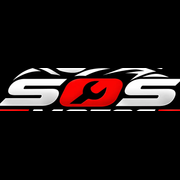
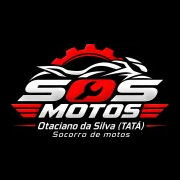
Ícones oficiais, ícone do iPhone e FAQ em sanfona
Troca os ícones desenhados à mão (via <use>) pelos oficiais embutidos:
WhatsApp (Simple Icons), Lucide e a moto do Tabler. Refaz o ícone de
tela inicial do iPhone com a logo inteira. No FAQ, abrir uma pergunta
fecha a outra e a pergunta clicada não sai do lugar.

Changed region(s): [[0.0, 0.2222, 1.0, 0.7778]]

diff --git a/index.html b/index.html
@@ -17,6 +17,7 @@
 <meta property="og:image:height" content="630">
 <meta name="twitter:card" content="summary_large_image">
 <link rel="icon" href="favicon.png" type="image/png">
+<link rel="icon" href="icon-512.png" type="image/png" sizes="512x512">
 <link rel="apple-touch-icon" href="apple-touch-icon.png">
 <meta name="theme-color" content="#0B0B0C">
 <link rel="canonical" href="https://murilolodi.github.io/site-sos-motos/">
@@ -101,7 +102,7 @@
       <a href="#duvidas">Dúvidas</a>
     </nav>
     <a class="btn btn--red btn--sm header__cta" data-wa href="https://wa.me/5545999428969">
-      <svg class="ico" viewBox="0 0 24 24" aria-hidden="true"><use href="#i-wa"/></svg>Chamar no WhatsApp
+      <svg class="ico" viewBox="0 0 24 24" fill="currentColor" aria-hidden="true" focusable="false"><path d="M17.472 14.382c-.297-.149-1.758-.867-2.03-.967-.273-.099-.471-.148-.67.15-.197.297-.767.966-.94 1.164-.173.199-.347.223-.644.075-.297-.15-1.255-.463-2.39-1.475-.883-.788-1.48-1.761-1.653-2.059-.173-.297-.018-.458.13-.606.134-.133.298-.347.446-.52.149-.174.198-.298.298-.497.099-.198.05-.371-.025-.52-.075-.149-.669-1.612-.916-2.207-.242-.579-.487-.5-.669-.51-.173-.008-.371-.01-.57-.01-.198 0-.52.074-.792.372-.272.297-1.04 1.016-1.04 2.479 0 1.462 1.065 2.875 1.213 3.074.149.198 2.096 3.2 5.077 4.487.709.306 1.262.489 1.694.625.712.227 1.36.195 1.871.118.571-.085 1.758-.719 2.006-1.413.248-.694.248-1.289.173-1.413-.074-.124-.272-.198-.57-.347m-5.421 7.403h-.004a9.87 9.87 0 01-5.031-1.378l-.361-.214-3.741.982.998-3.648-.235-.374a9.86 9.86 0 01-1.51-5.26c.001-5.45 4.436-9.884 9.888-9.884 2.64 0 5.122 1.03 6.988 2.898a9.825 9.825 0 012.893 6.994c-.003 5.45-4.437 9.884-9.885 9.884m8.413-18.297A11.815 11.815 0 0012.05 0C5.495 0 .16 5.335.157 11.892c0 2.096.547 4.142 1.588 5.945L.057 24l6.305-1.654a11.882 11.882 0 005.683 1.448h.005c6.554 0 11.89-5.335 11.893-11.893a11.821 11.821 0 00-3.48-8.413Z"/></svg>Chamar no WhatsApp
     </a>
     <button class="header__burger" type="button" aria-expanded="false" aria-controls="menu" aria-label="Abrir menu"><span></span><span></span></button>
   </div>
@@ -111,7 +112,7 @@
     <a href="#carretinha">Carretinha</a>
     <a href="#area">Área atendida</a>
     <a href="#duvidas">Dúvidas</a>
-    <a class="btn btn--red" data-wa href="https://wa.me/5545999428969"><svg class="ico" viewBox="0 0 24 24" aria-hidden="true"><use href="#i-wa"/></svg>Chamar no WhatsApp</a>
+    <a class="btn btn--red" data-wa href="https://wa.me/5545999428969"><svg class="ico" viewBox="0 0 24 24" fill="currentColor" aria-hidden="true" focusable="false"><path d="M17.472 14.382c-.297-.149-1.758-.867-2.03-.967-.273-.099-.471-.148-.67.15-.197.297-.767.966-.94 1.164-.173.199-.347.223-.644.075-.297-.15-1.255-.463-2.39-1.475-.883-.788-1.48-1.761-1.653-2.059-.173-.297-.018-.458.13-.606.134-.133.298-.347.446-.52.149-.174.198-.298.298-.497.099-.198.05-.371-.025-.52-.075-.149-.669-1.612-.916-2.207-.242-.579-.487-.5-.669-.51-.173-.008-.371-.01-.57-.01-.198 0-.52.074-.792.372-.272.297-1.04 1.016-1.04 2.479 0 1.462 1.065 2.875 1.213 3.074.149.198 2.096 3.2 5.077 4.487.709.306 1.262.489 1.694.625.712.227 1.36.195 1.871.118.571-.085 1.758-.719 2.006-1.413.248-.694.248-1.289.173-1.413-.074-.124-.272-.198-.57-.347m-5.421 7.403h-.004a9.87 9.87 0 01-5.031-1.378l-.361-.214-3.741.982.998-3.648-.235-.374a9.86 9.86 0 01-1.51-5.26c.001-5.45 4.436-9.884 9.888-9.884 2.64 0 5.122 1.03 6.988 2.898a9.825 9.825 0 012.893 6.994c-.003 5.45-4.437 9.884-9.885 9.884m8.413-18.297A11.815 11.815 0 0012.05 0C5.495 0 .16 5.335.157 11.892c0 2.096.547 4.142 1.588 5.945L.057 24l6.305-1.654a11.882 11.882 0 005.683 1.448h.005c6.554 0 11.89-5.335 11.893-11.893a11.821 11.821 0 00-3.48-8.413Z"/></svg>Chamar no WhatsApp</a>
   </div>
 </header>
 
@@ -131,16 +132,16 @@
         <p class="hero__lead" data-in="3">Sua moto parou? O <strong>Tatá</strong> vai até onde ela está e leva para a oficina ou para a sua casa, presa com cintas numa carretinha para até 3 motos.</p>
         <div class="hero__cta" data-in="4">
           <a class="btn btn--red btn--lg btn--shine" data-wa href="https://wa.me/5545999428969">
-            <svg class="ico" viewBox="0 0 24 24" aria-hidden="true"><use href="#i-wa"/></svg>Chamar no WhatsApp
+            <svg class="ico" viewBox="0 0 24 24" fill="currentColor" aria-hidden="true" focusable="false"><path d="M17.472 14.382c-.297-.149-1.758-.867-2.03-.967-.273-.099-.471-.148-.67.15-.197.297-.767.966-.94 1.164-.173.199-.347.223-.644.075-.297-.15-1.255-.463-2.39-1.475-.883-.788-1.48-1.761-1.653-2.059-.173-.297-.018-.458.13-.606.134-.133.298-.347.446-.52.149-.174.198-.298.298-.497.099-.198.05-.371-.025-.52-.075-.149-.669-1.612-.916-2.207-.242-.579-.487-.5-.669-.51-.173-.008-.371-.01-.57-.01-.198 0-.52.074-.792.372-.272.297-1.04 1.016-1.04 2.479 0 1.462 1.065 2.875 1.213 3.074.149.198 2.096 3.2 5.077 4.487.709.306 1.262.489 1.694.625.712.227 1.36.195 1.871.118.571-.085 1.758-.719 2.006-1.413.248-.694.248-1.289.173-1.413-.074-.124-.272-.198-.57-.347m-5.421 7.403h-.004a9.87 9.87 0 01-5.031-1.378l-.361-.214-3.741.982.998-3.648-.235-.374a9.86 9.86 0 01-1.51-5.26c.001-5.45 4.436-9.884 9.888-9.884 2.64 0 5.122 1.03 6.988 2.898a9.825 9.825 0 012.893 6.994c-.003 5.45-4.437 9.884-9.885 9.884m8.413-18.297A11.815 11.815 0 0012.05 0C5.495 0 .16 5.335.157 11.892c0 2.096.547 4.142 1.588 5.945L.057 24l6.305-1.654a11.882 11.882 0 005.683 1.448h.005c6.554 0 11.89-5.335 11.893-11.893a11.821 11.821 0 00-3.48-8.413Z"/></svg>Chamar no WhatsApp
           </a>
           <a class="btn btn--ghost btn--lg" data-tel href="tel:+5545999428969">
-            <svg class="ico" viewBox="0 0 24 24" aria-hidden="true"><use href="#i-phone"/></svg>Ligar agora
+            <svg class="ico" viewBox="0 0 24 24" fill="none" stroke="currentColor" stroke-width="2" stroke-linecap="round" stroke-linejoin="round" aria-hidden="true" focusable="false"><path d="M22 16.92v3a2 2 0 0 1-2.18 2 19.79 19.79 0 0 1-8.63-3.07 19.5 19.5 0 0 1-6-6 19.79 19.79 0 0 1-3.07-8.67A2 2 0 0 1 4.11 2h3a2 2 0 0 1 2 1.72 12.84 12.84 0 0 0 .7 2.81 2 2 0 0 1-.45 2.11L8.09 9.91a16 16 0 0 0 6 6l1.27-1.27a2 2 0 0 1 2.11-.45 12.84 12.84 0 0 0 2.81.7A2 2 0 0 1 22 16.92z" /></svg>Ligar agora
           </a>
         </div>
         <ul class="chips" data-in="5">
-          <li><svg class="ico" viewBox="0 0 24 24" aria-hidden="true"><use href="#i-check"/></svg>Carretinha para 3 motos</li>
-          <li><svg class="ico" viewBox="0 0 24 24" aria-hidden="true"><use href="#i-check"/></svg>Moto presa com cintas</li>
-          <li><svg class="ico" viewBox="0 0 24 24" aria-hidden="true"><use href="#i-check"/></svg>Preço combinado antes</li>
+          <li><svg class="ico" viewBox="0 0 24 24" fill="none" stroke="currentColor" stroke-width="2" stroke-linecap="round" stroke-linejoin="round" aria-hidden="true" focusable="false"><path d="M20 6 9 17l-5-5" /></svg>Carretinha para 3 motos</li>
+          <li><svg class="ico" viewBox="0 0 24 24" fill="none" stroke="currentColor" stroke-width="2" stroke-linecap="round" stroke-linejoin="round" aria-hidden="true" focusable="false"><path d="M20 6 9 17l-5-5" /></svg>Moto presa com cintas</li>
+          <li><svg class="ico" viewBox="0 0 24 24" fill="none" stroke="currentColor" stroke-width="2" stroke-linecap="round" stroke-linejoin="round" aria-hidden="true" focusable="false"><path d="M20 6 9 17l-5-5" /></svg>Preço combinado antes</li>
         </ul>
       </div>
 
@@ -149,11 +150,11 @@
           <img src="img/carretinha-900.webp" srcset="img/carretinha-600.webp 600w, img/carretinha-900.webp 900w" sizes="(max-width: 900px) 90vw, 460px" width="900" height="1600" alt="Carretinha do SOS Motos com piso de alumínio antiderrapante e três suportes de roda" fetchpriority="high">
         </div>
         <div class="float float--a">
-          <span class="float__ico"><svg viewBox="0 0 24 24" aria-hidden="true"><use href="#i-pin"/></svg></span>
+          <span class="float__ico"><svg viewBox="0 0 24 24" fill="none" stroke="currentColor" stroke-width="2" stroke-linecap="round" stroke-linejoin="round" aria-hidden="true" focusable="false"><path d="M20 10c0 4.993-5.539 10.193-7.399 11.799a1 1 0 0 1-1.202 0C9.539 20.193 4 14.993 4 10a8 8 0 0 1 16 0" /> <circle cx="12" cy="10" r="3" /></svg></span>
           <span><b>Manda a localização</b><small>pelo WhatsApp</small></span>
         </div>
         <div class="float float--b">
-          <span class="float__ico float__ico--dark"><svg viewBox="0 0 24 24" aria-hidden="true"><use href="#i-moto"/></svg></span>
+          <span class="float__ico float__ico--dark"><svg viewBox="0 0 24 24" fill="none" stroke="currentColor" stroke-width="2" stroke-linecap="round" stroke-linejoin="round" aria-hidden="true" focusable="false"><path d="M5 16m-3 0a3 3 0 1 0 6 0a3 3 0 1 0 -6 0" /> <path d="M19 16m-3 0a3 3 0 1 0 6 0a3 3 0 1 0 -6 0" /> <path d="M7.5 14h5l4 -4h-10.5m1.5 4l4 -4" /> <path d="M13 6h2l1.5 3l2 4" /></svg></span>
           <span><b>Até 3 motos</b><small>por viagem</small></span>
         </div>
       </div>
@@ -179,25 +180,25 @@
       </div>
       <div class="cards">
         <article class="card" data-reveal>
-          <span class="card__ico"><svg viewBox="0 0 24 24" aria-hidden="true"><use href="#i-wrench"/></svg></span>
+          <span class="card__ico"><svg viewBox="0 0 24 24" fill="none" stroke="currentColor" stroke-width="2" stroke-linecap="round" stroke-linejoin="round" aria-hidden="true" focusable="false"><path d="M14.7 6.3a1 1 0 0 0 0 1.4l1.6 1.6a1 1 0 0 0 1.4 0l3.77-3.77a6 6 0 0 1-7.94 7.94l-6.91 6.91a2.12 2.12 0 0 1-3-3l6.91-6.91a6 6 0 0 1 7.94-7.94l-3.76 3.76z" /></svg></span>
           <h3>Pane na rua ou na estrada</h3>
           <p>Moto que não liga, ficou sem gasolina ou soltou a corrente vai direto para a oficina.</p>
           <a class="card__link" data-wa href="https://wa.me/5545999428969">Pedir socorro <span>→</span></a>
         </article>
         <article class="card" data-reveal>
-          <span class="card__ico"><svg viewBox="0 0 24 24" aria-hidden="true"><use href="#i-tire"/></svg></span>
+          <span class="card__ico"><svg viewBox="0 0 24 24" fill="none" stroke="currentColor" stroke-width="2" stroke-linecap="round" stroke-linejoin="round" aria-hidden="true" focusable="false"><path d="M12 12m-9 0a9 9 0 1 0 18 0a9 9 0 1 0 -18 0" /> <path d="M12 12m-3 0a3 3 0 1 0 6 0a3 3 0 1 0 -6 0" /> <path d="M3 12h6" /> <path d="M15 12h6" /> <path d="M13.6 9.4l3.4 -4.8" /> <path d="M10.4 14.6l-3.4 4.8" /> <path d="M7 4.6l3.4 4.8" /> <path d="M13.6 14.6l3.4 4.8" /></svg></span>
           <h3>Pneu furado</h3>
           <p>Nada de empurrar a moto até o borracheiro. Ela sobe na carretinha e segue para o conserto.</p>
           <a class="card__link" data-wa href="https://wa.me/5545999428969">Pedir socorro <span>→</span></a>
         </article>
         <article class="card" data-reveal>
-          <span class="card__ico"><svg viewBox="0 0 24 24" aria-hidden="true"><use href="#i-alert"/></svg></span>
+          <span class="card__ico"><svg viewBox="0 0 24 24" fill="none" stroke="currentColor" stroke-width="2" stroke-linecap="round" stroke-linejoin="round" aria-hidden="true" focusable="false"><path d="m21.73 18-8-14a2 2 0 0 0-3.48 0l-8 14A2 2 0 0 0 4 21h16a2 2 0 0 0 1.73-3" /> <path d="M12 9v4" /> <path d="M12 17h.01" /></svg></span>
           <h3>Moto acidentada</h3>
           <p>A moto batida é levada com cuidado até a oficina ou a sua casa, presa com cintas.</p>
           <a class="card__link" data-wa href="https://wa.me/5545999428969">Pedir socorro <span>→</span></a>
         </article>
         <article class="card" data-reveal>
-          <span class="card__ico"><svg viewBox="0 0 24 24" aria-hidden="true"><use href="#i-route"/></svg></span>
+          <span class="card__ico"><svg viewBox="0 0 24 24" fill="none" stroke="currentColor" stroke-width="2" stroke-linecap="round" stroke-linejoin="round" aria-hidden="true" focusable="false"><circle cx="6" cy="19" r="3" /> <path d="M9 19h8.5a3.5 3.5 0 0 0 0-7h-11a3.5 3.5 0 0 1 0-7H15" /> <circle cx="18" cy="5" r="3" /></svg></span>
           <h3>Transporte de moto</h3>
           <p>Compra, venda, mudança ou revisão: de um endereço a outro, até 3 motos na mesma viagem.</p>
           <a class="card__link" data-wa href="https://wa.me/5545999428969">Pedir orçamento <span>→</span></a>
@@ -229,7 +230,7 @@
           </li>
         </ol>
         <a class="btn btn--red btn--lg btn--shine" data-wa href="https://wa.me/5545999428969" data-reveal>
-          <svg class="ico" viewBox="0 0 24 24" aria-hidden="true"><use href="#i-wa"/></svg>Chamar no WhatsApp
+          <svg class="ico" viewBox="0 0 24 24" fill="currentColor" aria-hidden="true" focusable="false"><path d="M17.472 14.382c-.297-.149-1.758-.867-2.03-.967-.273-.099-.471-.148-.67.15-.197.297-.767.966-.94 1.164-.173.199-.347.223-.644.075-.297-.15-1.255-.463-2.39-1.475-.883-.788-1.48-1.761-1.653-2.059-.173-.297-.018-.458.13-.606.134-.133.298-.347.446-.52.149-.174.198-.298.298-.497.099-.198.05-.371-.025-.52-.075-.149-.669-1.612-.916-2.207-.242-.579-.487-.5-.669-.51-.173-.008-.371-.01-.57-.01-.198 0-.52.074-.792.372-.272.297-1.04 1.016-1.04 2.479 0 1.462 1.065 2.875 1.213 3.074.149.198 2.096 3.2 5.077 4.487.709.306 1.262.489 1.694.625.712.227 1.36.195 1.871.118.571-.085 1.758-.719 2.006-1.413.248-.694.248-1.289.173-1.413-.074-.124-.272-.198-.57-.347m-5.421 7.403h-.004a9.87 9.87 0 01-5.031-1.378l-.361-.214-3.741.982.998-3.648-.235-.374a9.86 9.86 0 01-1.51-5.26c.001-5.45 4.436-9.884 9.888-9.884 2.64 0 5.122 1.03 6.988 2.898a9.825 9.825 0 012.893 6.994c-.003 5.45-4.437 9.884-9.885 9.884m8.413-18.297A11.815 11.815 0 0012.05 0C5.495 0 .16 5.335.157 11.892c0 2.096.547 4.142 1.588 5.945L.057 24l6.305-1.654a11.882 11.882 0 005.683 1.448h.005c6.554 0 11.89-5.335 11.893-11.893a11.821 11.821 0 00-3.48-8.413Z"/></svg>Chamar no WhatsApp
         </a>
       </div>
       <figure class="photo photo--tilt" data-reveal>
@@ -252,10 +253,10 @@
           <p class="head__lead">Nada de moto deitada ou amarrada de qualquer jeito. Cada moto vai em pé, travada no seu suporte.</p>
         </div>
         <ul class="specs">
-          <li data-reveal><span class="specs__ico"><svg viewBox="0 0 24 24" aria-hidden="true"><use href="#i-moto"/></svg></span><div><b>3 suportes de roda</b><small>Leva até 3 motos por viagem</small></div></li>
-          <li data-reveal><span class="specs__ico"><svg viewBox="0 0 24 24" aria-hidden="true"><use href="#i-grid"/></svg></span><div><b>Piso de alumínio xadrez</b><small>Antiderrapante na hora de subir a moto</small></div></li>
-          <li data-reveal><span class="specs__ico"><svg viewBox="0 0 24 24" aria-hidden="true"><use href="#i-link"/></svg></span><div><b>Argolas de amarração</b><small>Cintas presas em pontos firmes</small></div></li>
-          <li data-reveal><span class="specs__ico"><svg viewBox="0 0 24 24" aria-hidden="true"><use href="#i-spring"/></svg></span><div><b>Suspensão com molas</b><small>Menos trepidação na estrada</small></div></li>
+          <li data-reveal><span class="specs__ico"><svg viewBox="0 0 24 24" fill="none" stroke="currentColor" stroke-width="2" stroke-linecap="round" stroke-linejoin="round" aria-hidden="true" focusable="false"><path d="M5 16m-3 0a3 3 0 1 0 6 0a3 3 0 1 0 -6 0" /> <path d="M19 16m-3 0a3 3 0 1 0 6 0a3 3 0 1 0 -6 0" /> <path d="M7.5 14h5l4 -4h-10.5m1.5 4l4 -4" /> <path d="M13 6h2l1.5 3l2 4" /></svg></span><div><b>3 suportes de roda</b><small>Leva até 3 motos por viagem</small></div></li>
+          <li data-reveal><span class="specs__ico"><svg viewBox="0 0 24 24" fill="none" stroke="currentColor" stroke-width="2" stroke-linecap="round" stroke-linejoin="round" aria-hidden="true" focusable="false"><rect width="18" height="18" x="3" y="3" rx="2" /> <path d="M3 9h18" /> <path d="M3 15h18" /> <path d="M9 3v18" /> <path d="M15 3v18" /></svg></span><div><b>Piso de alumínio xadrez</b><small>Antiderrapante na hora de subir a moto</small></div></li>
+          <li data-reveal><span class="specs__ico"><svg viewBox="0 0 24 24" fill="none" stroke="currentColor" stroke-width="2" stroke-linecap="round" stroke-linejoin="round" aria-hidden="true" focusable="false"><path d="M10 13a5 5 0 0 0 7.54.54l3-3a5 5 0 0 0-7.07-7.07l-1.72 1.71" /> <path d="M14 11a5 5 0 0 0-7.54-.54l-3 3a5 5 0 0 0 7.07 7.07l1.71-1.71" /></svg></span><div><b>Argolas de amarração</b><small>Cintas presas em pontos firmes</small></div></li>
+          <li data-reveal><span class="specs__ico"><svg viewBox="0 0 24 24" fill="none" stroke="currentColor" stroke-width="2" stroke-linecap="round" stroke-linejoin="round" aria-hidden="true" focusable="false"><path d="M22 12h-2.48a2 2 0 0 0-1.93 1.46l-2.35 8.36a.25.25 0 0 1-.48 0L9.24 2.18a.25.25 0 0 0-.48 0l-2.35 8.36A2 2 0 0 1 4.49 12H2" /></svg></span><div><b>Suspensão com molas</b><small>Menos trepidação na estrada</small></div></li>
         </ul>
       </div>
     </div>
@@ -268,11 +269,11 @@
       <div>
         <h2>Moto parada agora? <br>Chame o Tatá.</h2>
         <p>Mande a localização pelo WhatsApp e receba o valor na hora.</p>
-        <a class="cta__phone" data-tel href="tel:+5545999428969"><svg class="ico" viewBox="0 0 24 24" aria-hidden="true"><use href="#i-phone"/></svg>(45) 99942-8969</a>
+        <a class="cta__phone" data-tel href="tel:+5545999428969"><svg class="ico" viewBox="0 0 24 24" fill="none" stroke="currentColor" stroke-width="2" stroke-linecap="round" stroke-linejoin="round" aria-hidden="true" focusable="false"><path d="M22 16.92v3a2 2 0 0 1-2.18 2 19.79 19.79 0 0 1-8.63-3.07 19.5 19.5 0 0 1-6-6 19.79 19.79 0 0 1-3.07-8.67A2 2 0 0 1 4.11 2h3a2 2 0 0 1 2 1.72 12.84 12.84 0 0 0 .7 2.81 2 2 0 0 1-.45 2.11L8.09 9.91a16 16 0 0 0 6 6l1.27-1.27a2 2 0 0 1 2.11-.45 12.84 12.84 0 0 0 2.81.7A2 2 0 0 1 22 16.92z" /></svg>(45) 99942-8969</a>
       </div>
       <div class="cta__btns">
-        <a class="btn btn--white btn--lg" data-wa href="https://wa.me/5545999428969"><svg class="ico" viewBox="0 0 24 24" aria-hidden="true"><use href="#i-wa"/></svg>Chamar no WhatsApp</a>
-        <a class="btn btn--outline-white btn--lg" data-tel href="tel:+5545999428969"><svg class="ico" viewBox="0 0 24 24" aria-hidden="true"><use href="#i-phone"/></svg>Ligar agora</a>
+        <a class="btn btn--white btn--lg" data-wa href="https://wa.me/5545999428969"><svg class="ico" viewBox="0 0 24 24" fill="currentColor" aria-hidden="true" focusable="false"><path d="M17.472 14.382c-.297-.149-1.758-.867-2.03-.967-.273-.099-.471-.148-.67.15-.197.297-.767.966-.94 1.164-.173.199-.347.223-.644.075-.297-.15-1.255-.463-2.39-1.475-.883-.788-1.48-1.761-1.653-2.059-.173-.297-.018-.458.13-.606.134-.133.298-.347.446-.52.149-.174.198-.298.298-.497.099-.198.05-.371-.025-.52-.075-.149-.669-1.612-.916-2.207-.242-.579-.487-.5-.669-.51-.173-.008-.371-.01-.57-.01-.198 0-.52.074-.792.372-.272.297-1.04 1.016-1.04 2.479 0 1.462 1.065 2.875 1.213 3.074.149.198 2.096 3.2 5.077 4.487.709.306 1.262.489 1.694.625.712.227 1.36.195 1.871.118.571-.085 1.758-.719 2.006-1.413.248-.694.248-1.289.173-1.413-.074-.124-.272-.198-.57-.347m-5.421 7.403h-.004a9.87 9.87 0 01-5.031-1.378l-.361-.214-3.741.982.998-3.648-.235-.374a9.86 9.86 0 01-1.51-5.26c.001-5.45 4.436-9.884 9.888-9.884 2.64 0 5.122 1.03 6.988 2.898a9.825 9.825 0 012.893 6.994c-.003 5.45-4.437 9.884-9.885 9.884m8.413-18.297A11.815 11.815 0 0012.05 0C5.495 0 .16 5.335.157 11.892c0 2.096.547 4.142 1.588 5.945L.057 24l6.305-1.654a11.882 11.882 0 005.683 1.448h.005c6.554 0 11.89-5.335 11.893-11.893a11.821 11.821 0 00-3.48-8.413Z"/></svg>Chamar no WhatsApp</a>
+        <a class="btn btn--outline-white btn--lg" data-tel href="tel:+5545999428969"><svg class="ico" viewBox="0 0 24 24" fill="none" stroke="currentColor" stroke-width="2" stroke-linecap="round" stroke-linejoin="round" aria-hidden="true" focusable="false"><path d="M22 16.92v3a2 2 0 0 1-2.18 2 19.79 19.79 0 0 1-8.63-3.07 19.5 19.5 0 0 1-6-6 19.79 19.79 0 0 1-3.07-8.67A2 2 0 0 1 4.11 2h3a2 2 0 0 1 2 1.72 12.84 12.84 0 0 0 .7 2.81 2 2 0 0 1-.45 2.11L8.09 9.91a16 16 0 0 0 6 6l1.27-1.27a2 2 0 0 1 2.11-.45 12.84 12.84 0 0 0 2.81.7A2 2 0 0 1 22 16.92z" /></svg>Ligar agora</a>
       </div>
     </div>
   </section>
@@ -289,7 +290,7 @@
         <ul class="cities" data-reveal>
           <li class="is-main">Toledo</li><li>Cascavel</li><li>Marechal Cândido Rondon</li><li>Palotina</li><li>Assis Chateaubriand</li><li>Tupãssi</li><li>Ouro Verde do Oeste</li><li>São Pedro do Iguaçu</li><li>Nova Santa Rosa</li><li>Quatro Pontes</li>
         </ul>
-        <p class="address" data-reveal><svg class="ico" viewBox="0 0 24 24" aria-hidden="true"><use href="#i-pin"/></svg>Av. Egydio Gerônymo Munaretto, Jardim César Park, Toledo-PR</p>
+        <p class="address" data-reveal><svg class="ico" viewBox="0 0 24 24" fill="none" stroke="currentColor" stroke-width="2" stroke-linecap="round" stroke-linejoin="round" aria-hidden="true" focusable="false"><path d="M20 10c0 4.993-5.539 10.193-7.399 11.799a1 1 0 0 1-1.202 0C9.539 20.193 4 14.993 4 10a8 8 0 0 1 16 0" /> <circle cx="12" cy="10" r="3" /></svg>Av. Egydio Gerônymo Munaretto, Jardim César Park, Toledo-PR</p>
       </div>
       <div class="map" data-reveal>
         <iframe title="Localização do SOS Motos em Toledo-PR no Google Maps" src="https://www.google.com/maps?q=-24.7551414,-53.7394605&amp;z=15&amp;output=embed" loading="lazy" referrerpolicy="no-referrer-when-downgrade"></iframe>
@@ -305,14 +306,14 @@
         <p class="kicker">Dúvidas</p>
         <h2>Perguntas sobre o <span class="red">guincho</span></h2>
         <p class="head__lead">Não achou sua resposta? Chama no WhatsApp <strong>(45) 99942-8969</strong> que o Tatá responde.</p>
-        <a class="btn btn--red" data-wa href="https://wa.me/5545999428969"><svg class="ico" viewBox="0 0 24 24" aria-hidden="true"><use href="#i-wa"/></svg>Tirar dúvida no WhatsApp</a>
+        <a class="btn btn--red" data-wa href="https://wa.me/5545999428969"><svg class="ico" viewBox="0 0 24 24" fill="currentColor" aria-hidden="true" focusable="false"><path d="M17.472 14.382c-.297-.149-1.758-.867-2.03-.967-.273-.099-.471-.148-.67.15-.197.297-.767.966-.94 1.164-.173.199-.347.223-.644.075-.297-.15-1.255-.463-2.39-1.475-.883-.788-1.48-1.761-1.653-2.059-.173-.297-.018-.458.13-.606.134-.133.298-.347.446-.52.149-.174.198-.298.298-.497.099-.198.05-.371-.025-.52-.075-.149-.669-1.612-.916-2.207-.242-.579-.487-.5-.669-.51-.173-.008-.371-.01-.57-.01-.198 0-.52.074-.792.372-.272.297-1.04 1.016-1.04 2.479 0 1.462 1.065 2.875 1.213 3.074.149.198 2.096 3.2 5.077 4.487.709.306 1.262.489 1.694.625.712.227 1.36.195 1.871.118.571-.085 1.758-.719 2.006-1.413.248-.694.248-1.289.173-1.413-.074-.124-.272-.198-.57-.347m-5.421 7.403h-.004a9.87 9.87 0 01-5.031-1.378l-.361-.214-3.741.982.998-3.648-.235-.374a9.86 9.86 0 01-1.51-5.26c.001-5.45 4.436-9.884 9.888-9.884 2.64 0 5.122 1.03 6.988 2.898a9.825 9.825 0 012.893 6.994c-.003 5.45-4.437 9.884-9.885 9.884m8.413-18.297A11.815 11.815 0 0012.05 0C5.495 0 .16 5.335.157 11.892c0 2.096.547 4.142 1.588 5.945L.057 24l6.305-1.654a11.882 11.882 0 005.683 1.448h.005c6.554 0 11.89-5.335 11.893-11.893a11.821 11.821 0 00-3.48-8.413Z"/></svg>Tirar dúvida no WhatsApp</a>
       </div>
       <div class="faq">
-        <details data-reveal open><summary>Quanto custa o guincho de moto em Toledo?</summary><p>Depende da distância até a moto e de para onde ela vai. O Tatá passa o valor pelo WhatsApp antes de sair, sem surpresa.</p></details>
-        <details data-reveal><summary>O guincho leva para qualquer oficina?</summary><p>Sim. A moto vai para a oficina que você escolher, para uma concessionária ou para a sua casa.</p></details>
-        <details data-reveal><summary>Quantas motos cabem na carretinha?</summary><p>Até 3 motos por viagem, cada uma no seu suporte de roda e presa com cintas.</p></details>
-        <details data-reveal><summary>Como mando a localização da moto?</summary><p>No WhatsApp, toque no clipe, escolha Localização e envie a localização atual. Assim o Tatá chega direto até você.</p></details>
-        <details data-reveal><summary>O guincho atende fora de Toledo?</summary><p>Sim, nas cidades da região. Mande a localização e o Tatá confirma se consegue ir e quanto fica.</p></details>
+        <details name="faq" data-reveal open><summary>Quanto custa o guincho de moto em Toledo?</summary><p>Depende da distância até a moto e de para onde ela vai. O Tatá passa o valor pelo WhatsApp antes de sair, sem surpresa.</p></details>
+        <details name="faq" data-reveal><summary>O guincho leva para qualquer oficina?</summary><p>Sim. A moto vai para a oficina que você escolher, para uma concessionária ou para a sua casa.</p></details>
+        <details name="faq" data-reveal><summary>Quantas motos cabem na carretinha?</summary><p>Até 3 motos por viagem, cada uma no seu suporte de roda e presa com cintas.</p></details>
+        <details name="faq" data-reveal><summary>Como mando a localização da moto?</summary><p>No WhatsApp, toque no clipe, escolha Localização e envie a localização atual. Assim o Tatá chega direto até você.</p></details>
+        <details name="faq" data-reveal><summary>O guincho atende fora de Toledo?</summary><p>Sim, nas cidades da região. Mande a localização e o Tatá confirma se consegue ir e quanto fica.</p></details>
       </div>
     </div>
   </section>
@@ -344,30 +345,14 @@
 <!-- WhatsApp flutuante -->
 <a class="wa-float" data-wa href="https://wa.me/5545999428969" aria-label="Chamar o guincho no WhatsApp">
   <span class="wa-float__bubble">Moto parou? <b>Chama aqui!</b></span>
-  <span class="wa-float__btn"><svg viewBox="0 0 24 24" aria-hidden="true"><use href="#i-wa"/></svg></span>
+  <span class="wa-float__btn"><svg viewBox="0 0 24 24" fill="currentColor" aria-hidden="true" focusable="false"><path d="M17.472 14.382c-.297-.149-1.758-.867-2.03-.967-.273-.099-.471-.148-.67.15-.197.297-.767.966-.94 1.164-.173.199-.347.223-.644.075-.297-.15-1.255-.463-2.39-1.475-.883-.788-1.48-1.761-1.653-2.059-.173-.297-.018-.458.13-.606.134-.133.298-.347.446-.52.149-.174.198-.298.298-.497.099-.198.05-.371-.025-.52-.075-.149-.669-1.612-.916-2.207-.242-.579-.487-.5-.669-.51-.173-.008-.371-.01-.57-.01-.198 0-.52.074-.792.372-.272.297-1.04 1.016-1.04 2.479 0 1.462 1.065 2.875 1.213 3.074.149.198 2.096 3.2 5.077 4.487.709.306 1.262.489 1.694.625.712.227 1.36.195 1.871.118.571-.085 1.758-.719 2.006-1.413.248-.694.248-1.289.173-1.413-.074-.124-.272-.198-.57-.347m-5.421 7.403h-.004a9.87 9.87 0 01-5.031-1.378l-.361-.214-3.741.982.998-3.648-.235-.374a9.86 9.86 0 01-1.51-5.26c.001-5.45 4.436-9.884 9.888-9.884 2.64 0 5.122 1.03 6.988 2.898a9.825 9.825 0 012.893 6.994c-.003 5.45-4.437 9.884-9.885 9.884m8.413-18.297A11.815 11.815 0 0012.05 0C5.495 0 .16 5.335.157 11.892c0 2.096.547 4.142 1.588 5.945L.057 24l6.305-1.654a11.882 11.882 0 005.683 1.448h.005c6.554 0 11.89-5.335 11.893-11.893a11.821 11.821 0 00-3.48-8.413Z"/></svg></span>
 </a>
 
 <!-- barra fixa no celular -->
 <nav class="mbar" aria-label="Contato rápido">
-  <a class="mbar__call" data-tel href="tel:+5545999428969"><svg class="ico" viewBox="0 0 24 24" aria-hidden="true"><use href="#i-phone"/></svg>Ligar</a>
-  <a class="mbar__wa" data-wa href="https://wa.me/5545999428969"><svg class="ico" viewBox="0 0 24 24" aria-hidden="true"><use href="#i-wa"/></svg>Chamar no WhatsApp</a>
+  <a class="mbar__call" data-tel href="tel:+5545999428969"><svg class="ico" viewBox="0 0 24 24" fill="none" stroke="currentColor" stroke-width="2" stroke-linecap="round" stroke-linejoin="round" aria-hidden="true" focusable="false"><path d="M22 16.92v3a2 2 0 0 1-2.18 2 19.79 19.79 0 0 1-8.63-3.07 19.5 19.5 0 0 1-6-6 19.79 19.79 0 0 1-3.07-8.67A2 2 0 0 1 4.11 2h3a2 2 0 0 1 2 1.72 12.84 12.84 0 0 0 .7 2.81 2 2 0 0 1-.45 2.11L8.09 9.91a16 16 0 0 0 6 6l1.27-1.27a2 2 0 0 1 2.11-.45 12.84 12.84 0 0 0 2.81.7A2 2 0 0 1 22 16.92z" /></svg>Ligar</a>
+  <a class="mbar__wa" data-wa href="https://wa.me/5545999428969"><svg class="ico" viewBox="0 0 24 24" fill="currentColor" aria-hidden="true" focusable="false"><path d="M17.472 14.382c-.297-.149-1.758-.867-2.03-.967-.273-.099-.471-.148-.67.15-.197.297-.767.966-.94 1.164-.173.199-.347.223-.644.075-.297-.15-1.255-.463-2.39-1.475-.883-.788-1.48-1.761-1.653-2.059-.173-.297-.018-.458.13-.606.134-.133.298-.347.446-.52.149-.174.198-.298.298-.497.099-.198.05-.371-.025-.52-.075-.149-.669-1.612-.916-2.207-.242-.579-.487-.5-.669-.51-.173-.008-.371-.01-.57-.01-.198 0-.52.074-.792.372-.272.297-1.04 1.016-1.04 2.479 0 1.462 1.065 2.875 1.213 3.074.149.198 2.096 3.2 5.077 4.487.709.306 1.262.489 1.694.625.712.227 1.36.195 1.871.118.571-.085 1.758-.719 2.006-1.413.248-.694.248-1.289.173-1.413-.074-.124-.272-.198-.57-.347m-5.421 7.403h-.004a9.87 9.87 0 01-5.031-1.378l-.361-.214-3.741.982.998-3.648-.235-.374a9.86 9.86 0 01-1.51-5.26c.001-5.45 4.436-9.884 9.888-9.884 2.64 0 5.122 1.03 6.988 2.898a9.825 9.825 0 012.893 6.994c-.003 5.45-4.437 9.884-9.885 9.884m8.413-18.297A11.815 11.815 0 0012.05 0C5.495 0 .16 5.335.157 11.892c0 2.096.547 4.142 1.588 5.945L.057 24l6.305-1.654a11.882 11.882 0 005.683 1.448h.005c6.554 0 11.89-5.335 11.893-11.893a11.821 11.821 0 00-3.48-8.413Z"/></svg>Chamar no WhatsApp</a>
 </nav>
-
-<!-- ícones -->
-<svg width="0" height="0" style="position:absolute" aria-hidden="true">
-  <symbol id="i-wa" viewBox="0 0 24 24"><path fill="currentColor" fill-rule="evenodd" d="M12 2a10 10 0 0 0-8.6 15.1L2 22l5-1.3A10 10 0 1 0 12 2zm0 1.8a8.2 8.2 0 1 1-4.2 15.3l-.3-.2-3 .8.8-2.9-.2-.3A8.2 8.2 0 0 1 12 3.8zm-3.3 4.1c-.2 0-.5 0-.7.3-.3.3-1 1-1 2.3s1 2.7 1.2 2.9c.1.2 2 3.1 4.9 4.3 2.4 1 2.9.8 3.4.7.5 0 1.7-.7 1.9-1.4.2-.7.2-1.2.2-1.4l-.5-.3-1.8-.9c-.3-.1-.5-.1-.7.2l-.8 1c-.2.2-.3.2-.6.1a6.7 6.7 0 0 1-3.3-2.9c-.2-.4.2-.4.7-1.3.1-.2 0-.3 0-.5l-.8-2c-.2-.5-.4-.4-.6-.4z"/></symbol>
-  <symbol id="i-phone" viewBox="0 0 24 24"><path fill="none" stroke="currentColor" stroke-width="2" stroke-linecap="round" stroke-linejoin="round" d="M22 16.9v3a2 2 0 0 1-2.2 2 19.8 19.8 0 0 1-8.6-3.1 19.5 19.5 0 0 1-6-6A19.8 19.8 0 0 1 2.1 4.2 2 2 0 0 1 4.1 2h3a2 2 0 0 1 2 1.7c.1.9.4 1.8.7 2.7a2 2 0 0 1-.5 2.1L8 9.8a16 16 0 0 0 6 6l1.3-1.3a2 2 0 0 1 2.1-.4c.9.3 1.8.6 2.7.7a2 2 0 0 1 1.7 2z"/></symbol>
-  <symbol id="i-check" viewBox="0 0 24 24"><path fill="none" stroke="currentColor" stroke-width="2.6" stroke-linecap="round" stroke-linejoin="round" d="M5 12.5l4.5 4.5L19 7.5"/></symbol>
-  <symbol id="i-pin" viewBox="0 0 24 24"><path fill="none" stroke="currentColor" stroke-width="2" stroke-linejoin="round" d="M12 22s7-6.3 7-12a7 7 0 0 0-14 0c0 5.7 7 12 7 12z"/><circle cx="12" cy="10" r="2.6" fill="none" stroke="currentColor" stroke-width="2"/></symbol>
-  <symbol id="i-moto" viewBox="0 0 24 24"><g fill="none" stroke="currentColor" stroke-width="1.9" stroke-linecap="round" stroke-linejoin="round"><circle cx="5.5" cy="16.5" r="3.5"/><circle cx="18.5" cy="16.5" r="3.5"/><path d="M5.5 16.5l4-6h5l4 6M14.5 10.5L13 6.5h-2.5M9.5 10.5h-3"/></g></symbol>
-  <symbol id="i-wrench" viewBox="0 0 24 24"><path fill="none" stroke="currentColor" stroke-width="2" stroke-linecap="round" stroke-linejoin="round" d="M14.7 6.3a1 1 0 0 0 0 1.4l1.6 1.6a1 1 0 0 0 1.4 0l3.8-3.8a6 6 0 0 1-7.9 7.9l-6.9 6.9a2.1 2.1 0 0 1-3-3l6.9-6.9a6 6 0 0 1 7.9-7.9l-3.8 3.8z"/></symbol>
-  <symbol id="i-tire" viewBox="0 0 24 24"><g fill="none" stroke="currentColor" stroke-width="2" stroke-linecap="round"><circle cx="12" cy="12" r="9"/><circle cx="12" cy="12" r="3.5"/><path d="M12 3v5.5M12 15.5V21M3 12h5.5M15.5 12H21"/></g></symbol>
-  <symbol id="i-alert" viewBox="0 0 24 24"><g fill="none" stroke="currentColor" stroke-width="2" stroke-linecap="round" stroke-linejoin="round"><path d="M10.3 3.9L1.8 18a2 2 0 0 0 1.7 3h17a2 2 0 0 0 1.7-3L13.7 3.9a2 2 0 0 0-3.4 0z"/><path d="M12 9v4M12 17h.01"/></g></symbol>
-  <symbol id="i-route" viewBox="0 0 24 24"><g fill="none" stroke="currentColor" stroke-width="2" stroke-linecap="round" stroke-linejoin="round"><circle cx="6" cy="19" r="2.5"/><circle cx="18" cy="5" r="2.5"/><path d="M8.5 19h7a3.5 3.5 0 0 0 0-7h-7a3.5 3.5 0 0 1 0-7h7"/></g></symbol>
-  <symbol id="i-grid" viewBox="0 0 24 24"><g fill="none" stroke="currentColor" stroke-width="2" stroke-linecap="round"><rect x="3" y="3" width="18" height="18" rx="2"/><path d="M7 8l2 2M12 8l2 2M17 8l-2 2M7 14l2 2M12 14l2 2M17 14l-2 2"/></g></symbol>
-  <symbol id="i-link" viewBox="0 0 24 24"><g fill="none" stroke="currentColor" stroke-width="2" stroke-linecap="round"><path d="M10 13a5 5 0 0 0 7.5.5l3-3a5 5 0 0 0-7-7l-1.7 1.7"/><path d="M14 11a5 5 0 0 0-7.5-.5l-3 3a5 5 0 0 0 7 7l1.7-1.7"/></g></symbol>
-  <symbol id="i-spring" viewBox="0 0 24 24"><path fill="none" stroke="currentColor" stroke-width="2" stroke-linecap="round" stroke-linejoin="round" d="M6 3h12M6 21h12M7 6l10 2-10 2 10 2-10 2 10 2-10 2"/></symbol>
-</svg>
 
 <script src="site.js" defer></script>
 </body>

diff --git a/site.js b/site.js
@@ -80,6 +80,21 @@ const MENSAGEM = 'Olá, Tatá! Preciso de guincho para minha moto. Minha localiz
     sections.forEach((s) => io.observe(s));
   }
 
+  // FAQ em sanfona: abrir uma pergunta fecha as outras, e a pergunta clicada fica parada na tela
+  const faqs = [...document.querySelectorAll('.faq details')];
+  faqs.forEach((d) => {
+    d.querySelector('summary').addEventListener('click', (e) => {
+      e.preventDefault();
+      const summary = e.currentTarget;
+      const before = summary.getBoundingClientRect().top;
+      const opening = !d.open;
+      faqs.forEach((o) => { if (o !== d) o.open = false; });
+      d.open = opening;
+      const shift = summary.getBoundingClientRect().top - before;
+      if (shift) window.scrollBy({ top: shift, behavior: 'instant' });
+    });
+  });
+
   // balão do WhatsApp flutuante: aparece depois de 4 s e some depois de 8 s
   const float = document.querySelector('.wa-float');
   if (float) {
